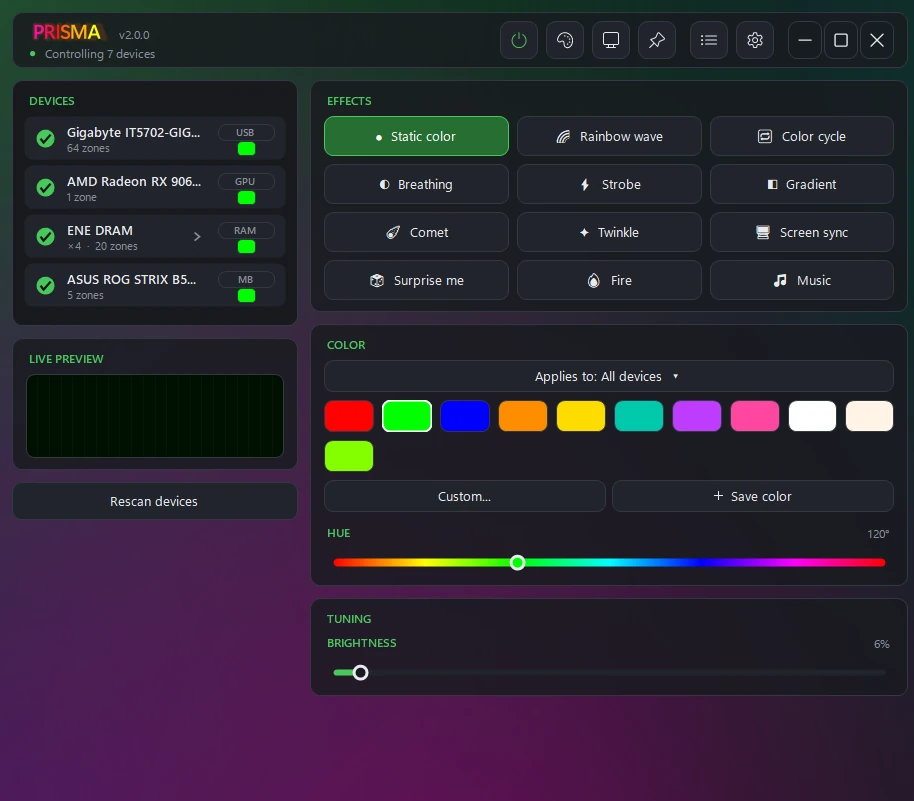
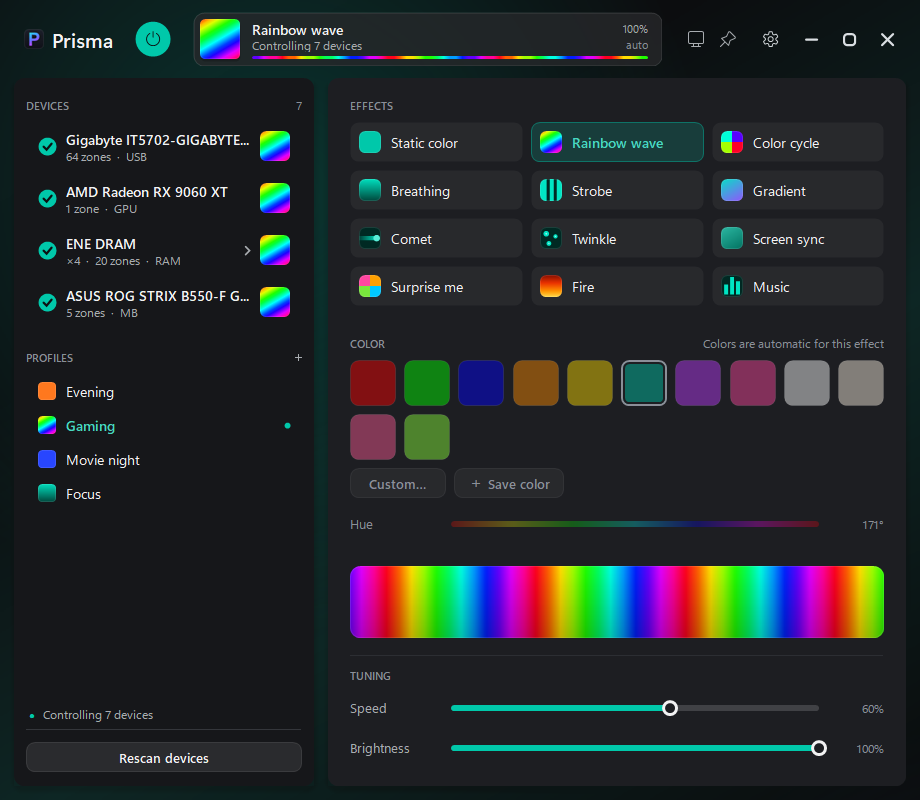
Prisma's card: 2.1.0, the redesigned window
The card's picture is Prisma 2.1.0's new main window (920x800, from the app's built-in
preview with sample devices; the same picture as on its page), tilted and zoomed by the same
CSS as before. Latest release: v2.1.0 · 16 Oct 2026.

diff --git a/index.html b/index.html
@@ -115,7 +115,7 @@ h2 a:focus-visible{outline:0}
 .v-hexpad .small{width:10.8%;top:74.6%}.v-hexpad .s1{left:69.8%}.v-hexpad .s2{left:85.4%}
 .app:hover .v-hexpad .knob,.app:focus-within .v-hexpad .knob{transform:rotate(70deg)}
 
-/* Prisma: its own main window (v2.0.0, captured from the running app, the same picture as on its page) */
+/* Prisma: its own main window (v2.1.0, from the app's built-in preview with sample devices, the same picture as on its page) */
 .v-prisma{background:radial-gradient(70% 60% at 50% 40%,#1e1838,#0f0f17 75%);align-items:flex-start;justify-content:flex-start}
 .v-prisma img{width:150%;height:auto;max-width:none;margin:9% 0 0 7%;border-radius:10px;border:1px solid #2c2a3a;box-shadow:0 18px 40px rgba(0,0,0,.6);
   transform:rotate(-3deg);transform-origin:0 0;transition:transform .6s cubic-bezier(.2,.7,.2,1)}
@@ -224,10 +224,10 @@ footer a{color:var(--dim)}
 </article>
 
 <article class="app" style="--acc:#00c8aa">
-<div class="visual v-prisma" aria-hidden="true"><img src="img/prisma-window.webp" width="914" height="801" alt="" loading="lazy"></div>
+<div class="visual v-prisma" aria-hidden="true"><img src="img/prisma-window.webp" width="920" height="800" alt="" loading="lazy"></div>
 <div class="meta"><img src="img/prisma.png" width="48" height="48" alt=""><div>
 <h2><a href="https://erik1028.github.io/Prisma/">Prisma</a></h2>
-<span class="rel" data-repo="Erik1028/Prisma" title="Latest release"><i></i>v2.0.0 · 21 Sept 2026</span>
+<span class="rel" data-repo="Erik1028/Prisma" title="Latest release"><i></i>v2.1.0 · 16 Oct 2026</span>
 <p>All the RGB lighting in your PC from one app: motherboard, RAM, GPU, fans, keyboard and mouse.</p>
 <span class="links"><a href="https://erik1028.github.io/Prisma/">Website</a> · <a href="https://github.com/Erik1028/Prisma">GitHub</a></span>
 </div></div>
